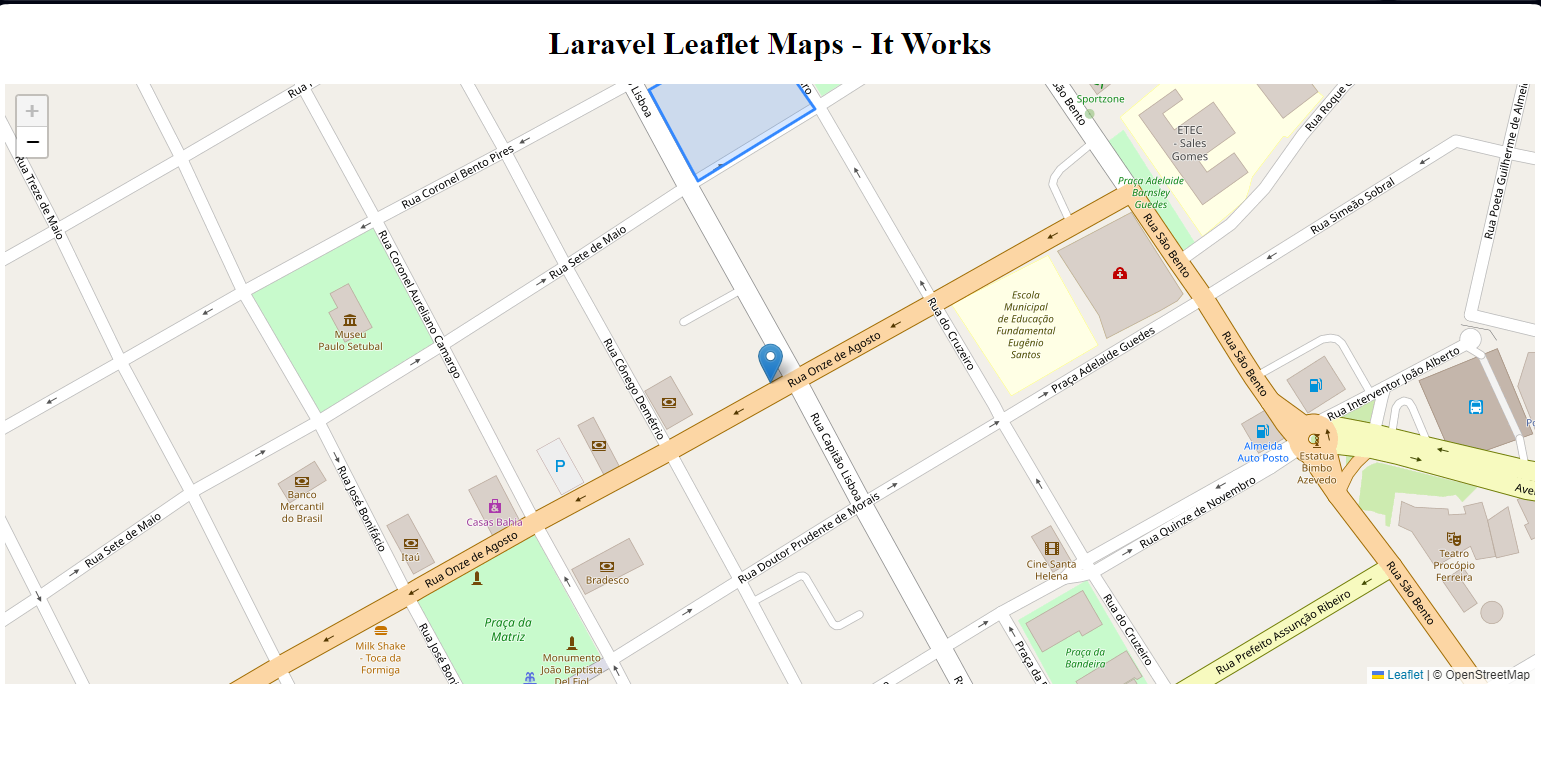
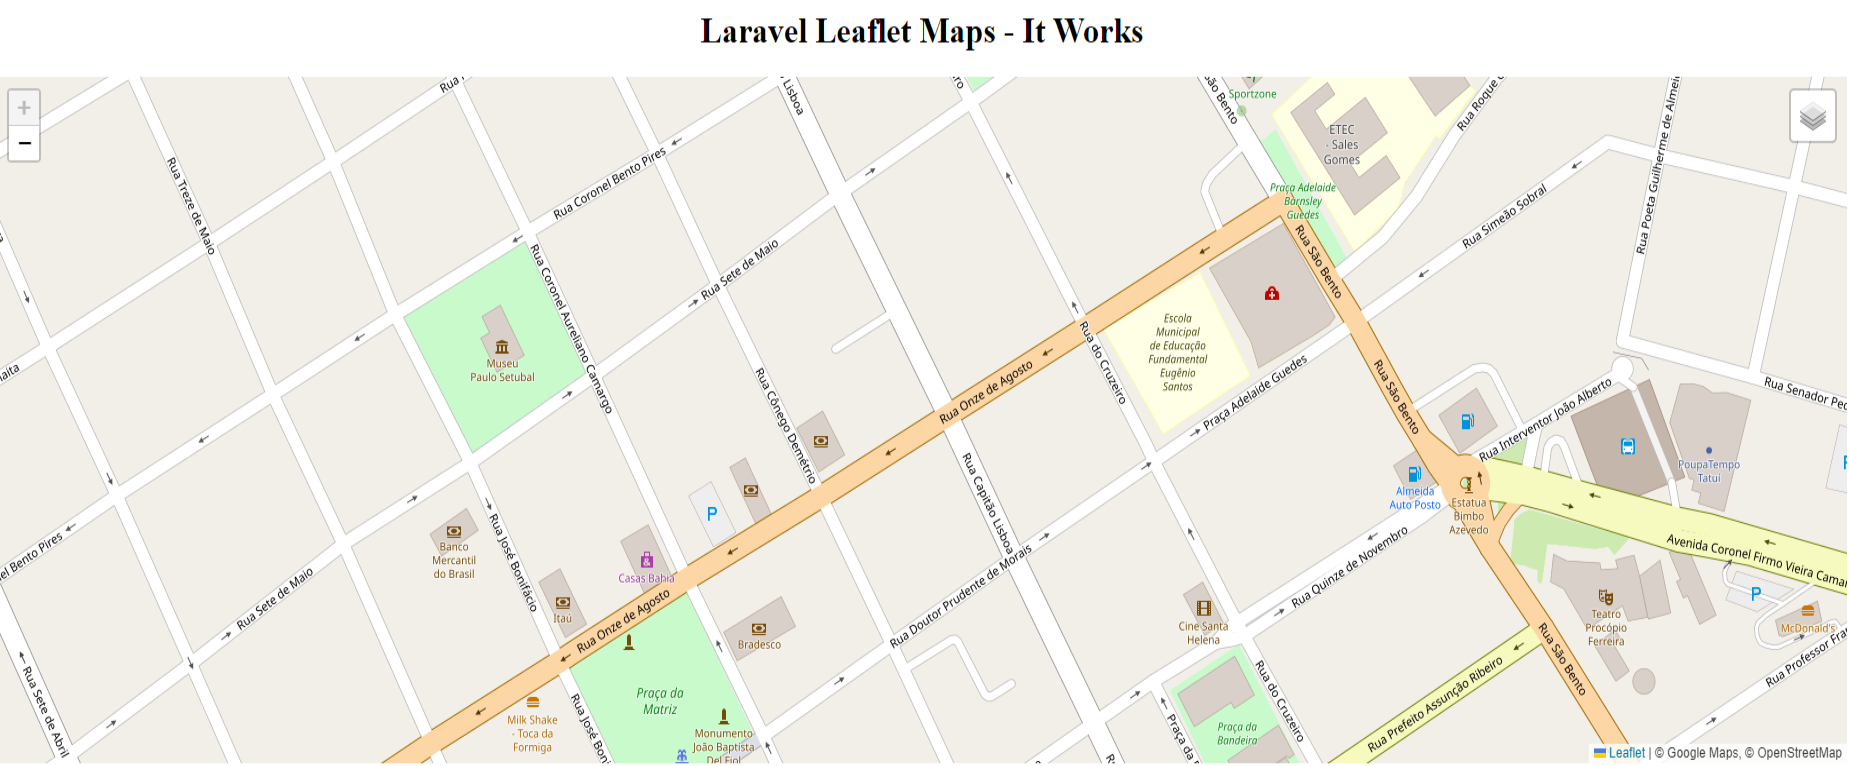
👌 Improve: More Parameters in options && default for parameters.

diff --git a/src/views/map.blade.php b/src/views/map.blade.php
@@ -25,22 +25,28 @@
     <script src="https://unpkg.com/leaflet-control-geocoder/dist/Control.Geocoder.js"></script>
     <script>
         let map, markers = [], polygons = [], ctlLayers, menuBase;
-        const options = <?php echo json_encode($options); ?>;
-        const googleview = <?php echo json_encode($options['googleview']); ?>;
         /* ----------------------------- Initialize Map ----------------------------- */
         function initMap() {
+
+            const options = {!! json_encode($options) !!};
+            const initialMarkers = {!! json_encode($initialMarkers ?? '') !!};
+            const initialPolygons = {!! json_encode($initialPolygons ?? '') !!};
+
             map = L.map('map', {
                 center: {
-                    lat: <?php echo $options['center']['lat'] ?>, // -23.347509137997484,
-                    lng: <?php echo $options['center']['lng'] ?> // -47.84753617004771
+                    lat: (options.center) ? options.center.lat : -23.347509137997484,
+                    lng: (options.center) ? options.center.lng : -47.84753617004771
                 },
-                zoom: 18
+                zoom: options.zoom || 18,
+                zoomControl: options.zoomControl || true,
+                minZoom: options.minZoom || 13,
+                maxZoom: options.maxZoom || 18,
             });
 
             var osm = L.tileLayer('https://{s}.tile.openstreetmap.org/{z}/{x}/{y}.png', {
                 attribution: '© OpenStreetMap'
             });
-            if (googleview) {
+            if (options.googleview || true) {
 
                 var imagens = L.tileLayer('http://mt1.google.com/vt/lyrs=s&x={x}&y={y}&z={z}', {
                     attribution: '© Google Maps'
@@ -56,14 +62,13 @@
             map.addLayer(osm);
 
             map.on('click', mapClicked);
-            initMarkers();
-            initPolygons();
+            if (initialMarkers != '') { initMarkers(initialMarkers,options); }
+            if (initialPolygons != '') { initPolygons(initialPolygons); }
         }
         initMap();
 
         /* --------------------------- Initialize Markers --------------------------- */
-        function initMarkers() {
-            const initialMarkers = <?php echo json_encode($initialMarkers); ?>;
+        function initMarkers(initialMarkers,options) {
 
             for (let index = 0; index < initialMarkers.length; index++) {
 
@@ -77,8 +82,8 @@
             const geocoder = L.Control.Geocoder.nominatim();
             geocoder.reverse(
                 {
-                    lat: <?php echo $options['center']['lat'] ?>, // -23.347509137997484,
-                    lng: <?php echo $options['center']['lng'] ?> // -47.84753617004771
+                    lat: (options.center) ? options.center.lat : -23.347509137997484,
+                    lng: (options.center) ? options.center.lng : -47.84753617004771
                 },
                 map.getZoom(),
                 (results) => {
@@ -90,23 +95,12 @@
         }
 
         /* --------------------------- Initialize Polygons --------------------------- */
-        function initPolygons() {
-            const initialPolygons = <?php echo json_encode($initialPolygons); ?>;
+        function initPolygons(initialPolygons) {
 
             for (let index = 0; index < initialPolygons.length; index++) {
                 const data = initialPolygons[index];
                 const polygon = L.polygon(data).addTo(map).bindPopup(`I am a Polygon`);
             }
-        }
-
-        const popup = L.popup();
-
-        function generateMarker(data, index) {
-            return L.marker(data.position, {
-                    draggable: data.draggable
-                })
-                .on('click', (event) => markerClicked(event, index))
-                .on('dragend', (event) => markerDragEnd(event, index));
         }
 
         /* ------------------------- Handle Map Click Event ------------------------- */

diff --git a/src/views/components/laravel-map.blade.php b/src/views/components/laravel-map.blade.php
@@ -20,22 +20,28 @@
     <script src="https://unpkg.com/leaflet-control-geocoder/dist/Control.Geocoder.js"></script>
     <script>
         let map, markers = [], polygons = [], ctlLayers, menuBase;
-        const options = <?php echo json_encode($options); ?>;
-        const googleview = <?php echo json_encode($options['googleview']); ?>;
         /* ----------------------------- Initialize Map ----------------------------- */
         function initMap() {
+
+            const options = {!! json_encode($options) !!};
+            const initialMarkers = {!! json_encode($initialMarkers ?? '') !!};
+            const initialPolygons = {!! json_encode($initialPolygons ?? '') !!};
+
             map = L.map('map', {
                 center: {
-                    lat: <?php echo $options['center']['lat'] ?>, // -23.347509137997484,
-                    lng: <?php echo $options['center']['lng'] ?> // -47.84753617004771
+                    lat: (options.center) ? options.center.lat : -23.347509137997484,
+                    lng: (options.center) ? options.center.lng : -47.84753617004771
                 },
-                zoom: 18
+                zoom: options.zoom || 18,
+                zoomControl: options.zoomControl || true,
+                minZoom: options.minZoom || 13,
+                maxZoom: options.maxZoom || 18,
             });
 
             var osm = L.tileLayer('https://{s}.tile.openstreetmap.org/{z}/{x}/{y}.png', {
                 attribution: '© OpenStreetMap'
             });
-            if (googleview) {
+            if (options.googleview || true) {
 
                 var imagens = L.tileLayer('http://mt1.google.com/vt/lyrs=s&x={x}&y={y}&z={z}', {
                     attribution: '© Google Maps'
@@ -51,14 +57,13 @@
             map.addLayer(osm);
 
             map.on('click', mapClicked);
-            initMarkers();
-            initPolygons();
+            if (initialMarkers != '') { initMarkers(initialMarkers,options); }
+            if (initialPolygons != '') { initPolygons(initialPolygons); }
         }
         initMap();
 
         /* --------------------------- Initialize Markers --------------------------- */
-        function initMarkers() {
-            const initialMarkers = <?php echo json_encode($initialMarkers); ?>;
+        function initMarkers(initialMarkers,options) {
 
             for (let index = 0; index < initialMarkers.length; index++) {
 
@@ -72,8 +77,8 @@
             const geocoder = L.Control.Geocoder.nominatim();
             geocoder.reverse(
                 {
-                    lat: <?php echo $options['center']['lat'] ?>, // -23.347509137997484,
-                    lng: <?php echo $options['center']['lng'] ?> // -47.84753617004771
+                    lat: (options.center) ? options.center.lat : -23.347509137997484,
+                    lng: (options.center) ? options.center.lng : -47.84753617004771
                 },
                 map.getZoom(),
                 (results) => {
@@ -85,8 +90,7 @@
         }
 
         /* --------------------------- Initialize Polygons --------------------------- */
-        function initPolygons() {
-            const initialPolygons = <?php echo json_encode($initialPolygons); ?>;
+        function initPolygons(initialPolygons) {
 
             for (let index = 0; index < initialPolygons.length; index++) {
                 const data = initialPolygons[index];

diff --git a/src/Http/Controllers/MapController.php b/src/Http/Controllers/MapController.php
@@ -14,7 +14,11 @@ class MapController extends Controller
                 'lat' => -23.347509137997484,
                 'lng' => -47.84753617004771
             ],
-            'googleview' => true
+            'googleview' => true,
+            'zoom' => 18,
+            'zoomControl' => true,
+            'minZoom' => 13,
+            'maxZoom' => 18,
         ];
         $initialMarkers = [
             [

diff --git a/README.md b/README.md
@@ -48,7 +48,11 @@ Implement $title and $markers in your Controller and pass to view
             'lat' => -23.347509137997484,
             'lng' => -47.84753617004771
         ],
-        'googleview' => true
+        'googleview' => true,
+        'zoom' => 18,
+        'zoomControl' => true,
+        'minZoom' => 13,
+        'maxZoom' => 18,
     ];
     $initialMarkers = [
         [
